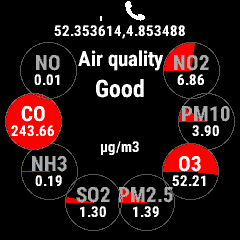
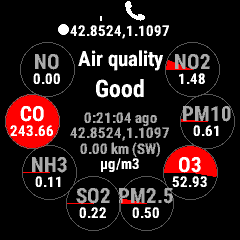
Add menu items

diff --git a/todo.md b/todo.md
@@ -1,60 +1,20 @@
-show: 
-(in settings: toggle show -- )
-    obs: location  "%0.4f"
-    current: location
+quality unknown in haslocation
+-> red + 180,180?
+
 exit menu -> do not request new data!
-top: current position
-middle: obs position
+- showhide toggle
+    Observation time
+    Observation location
+    Observeration distance
+    Toggle units  ppm / microm3
+beep alerts
 
---> in menu 
-serialize last aq data
-
+? serialize last aq data
+    ? keep in memory aq data
 show phone / gps level icons??
 memory issue.. prg <= 112 kb
-
-?? toglle ppm / microm3
-colors text
-keep in memory aq data
-show x:x:x ago
-xx km (WSW)
+? colors text
 alert/vibrate/beep > level
-remove msg after x seconds
-
 - cleanup | remove unused code - low memory
-- test menu 2 items
-    x - see menutest  app
-- load settings code
-- on show view -> get position etc .. get data
-    - gps quality 
-        - > see basic custom show the options + indicate selected
-        -> handle select
-
-    - update freq / -1 == off -2 == automatic / 5 / 10 / 20 / 30 / 60
-    - nox levels
-    - api key -> via settings easier
-
-- 
-store last known gps coord
-get gps
-- not found use stored values
-- indicate this
-- show gps coord on screen
-- distance to observation
-- phone connected
-- call to owm + indicate callpending time
+docu
   - on tap / on
-- display data
-
--- if no position found -> use timer for x times -> until onBack pressed -> stop timer
-using Toybox.Position;
-using Toybox.System;
-using Toybox.Timer;
-var dataTimer = new Timer.Timer();
-dataTimer.start(method(:timerCallback), 1000, true); // A one-second timer
-function timerCallback() {
-    var positionInfo = Position.getInfo();
-    if (positionInfo has :altitude && positionInfo.altitude != null) {
-        var altitude = positionInfo.altitude;
-        System.println("Altitude: " + altitude);
-    }
-}
